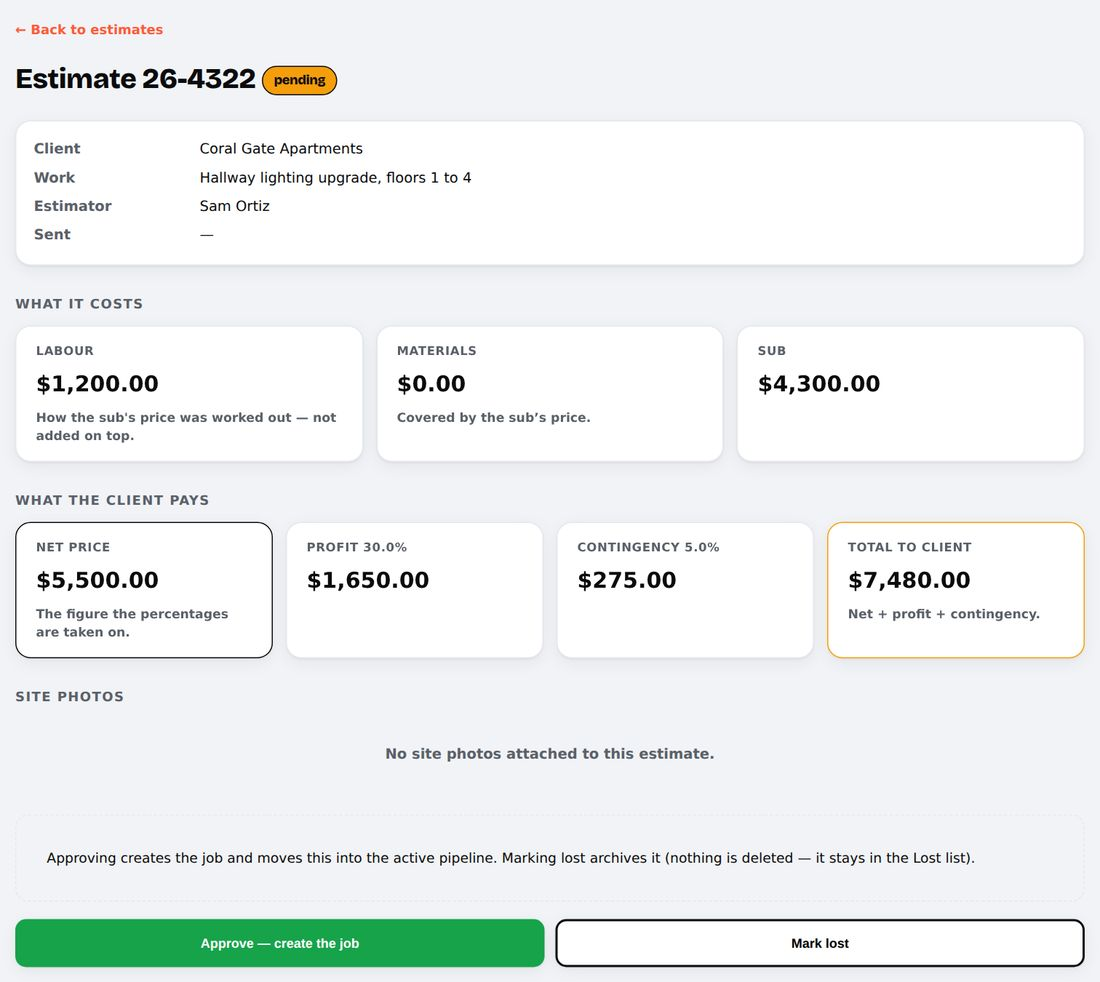
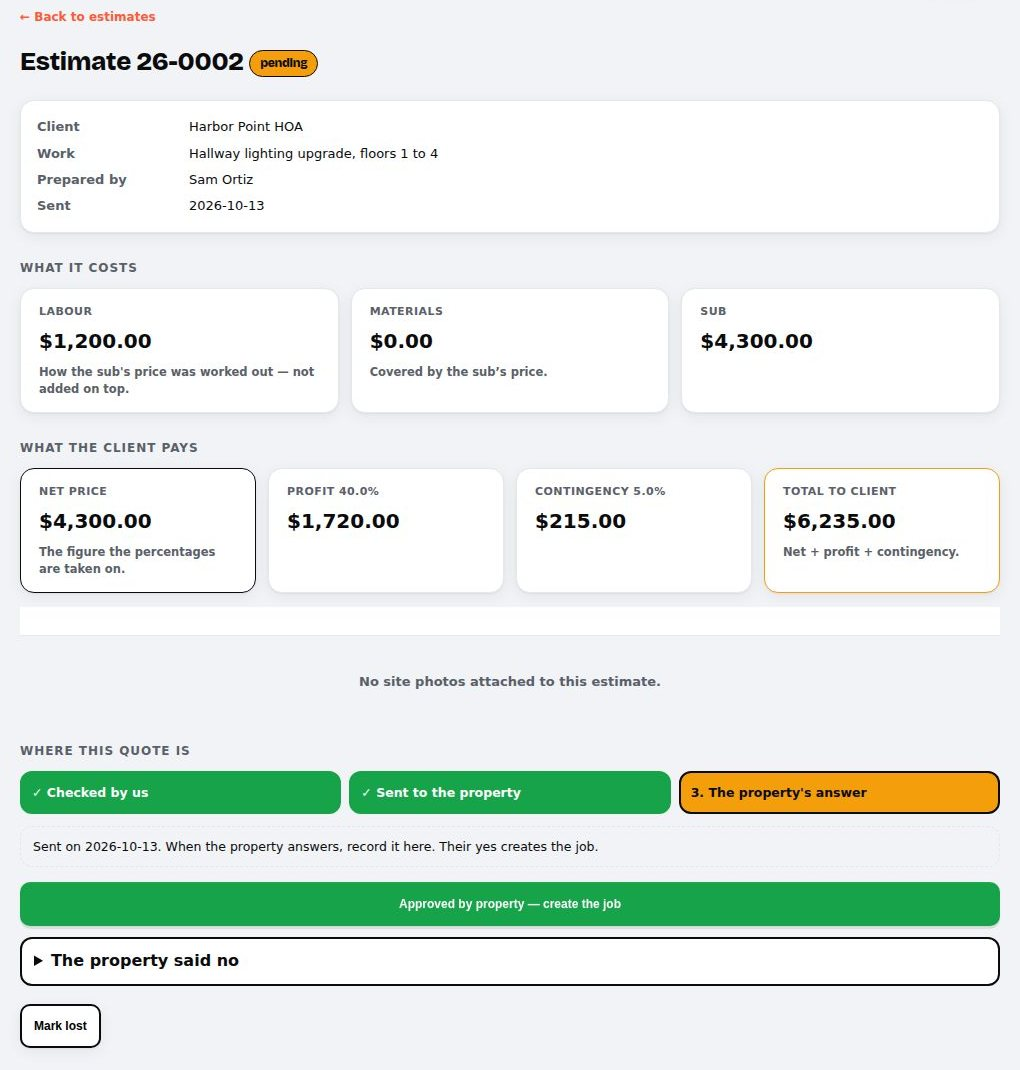
Yumbo guide: quotes in three steps, the bell, Start work, who approves expenses

diff --git a/yumbo-handbook/index.html b/yumbo-handbook/index.html
@@ -200,11 +200,21 @@ ol.steps li::before{content:counter(s);width:26px;height:26px;border-radius:99px
         <span class="tag"><i></i>The menu</span>
         <h3>The menu, in three groups</h3>
         <p><b>Work</b> is everything about jobs and quotes. <b>People</b> is your subs, suppliers and team. <b>Money</b> is who owes you, who you owe, and your company numbers.</p>
-        <p>A red number on a button means something is waiting there.</p>
+        <p>On Home the menu is open. On every other screen it is folded away, so each page starts at the top. Press ☰ to open it.</p>
         <p>The search box at the top finds any job, client, quote or invoice. Type a name or a job number.</p>
-        <div class="tip"><b>Too busy?</b> The ☰ button hides the menu. The ⚙ button opens Settings.</div>
+        <div class="tip"><b>The ⚙ button</b> opens Settings.</div>
       </div>
       <figure class="shot"><button data-full="img/menu.jpg" aria-label="Enlarge: the menu"><img src="img/menu.jpg" alt="The menu with Work, People and Money groups" loading="lazy"></button></figure>
+    </div>
+
+    <div class="how">
+      <div class="txt">
+        <span class="tag"><i></i>Every screen</span>
+        <h3>The bell: what is waiting for you</h3>
+        <p>The bell at the top is on every screen, for every person. Its number is how many alerts are waiting for you. Tap it to read them.</p>
+        <p>A red dot on ☰ means something in the menu is waiting too.</p>
+      </div>
+      <figure class="shot"><button data-full="img/topbar.jpg" aria-label="Enlarge: the top bar"><img src="img/topbar.jpg" alt="The top bar with the menu, the bell and settings" loading="lazy"></button></figure>
     </div>
 
     <div class="how">
@@ -243,7 +253,7 @@ ol.steps li::before{content:counter(s);width:26px;height:26px;border-radius:99px
     <nav class="flow" aria-label="The road a job takes">
       <a href="#newwork"><span class="n">1</span><b>Someone calls</b><small>Write it in New work</small></a>
       <a href="#quotes"><span class="n">2</span><b>Price it</b><small>A quote</small></a>
-      <a href="#approve"><span class="n">3</span><b>You say yes</b><small>It becomes a job</small></a>
+      <a href="#approve"><span class="n">3</span><b>The property says yes</b><small>It becomes a job</small></a>
       <a href="#jobpage"><span class="n">4</span><b>Do the work</b><small>The job page</small></a>
       <a href="#subs"><span class="n">5</span><b>Pay the subs</b><small>Deposit, then the rest</small></a>
       <a href="#invoices"><span class="n">6</span><b>Invoice</b><small>Nothing goes out unchecked</small></a>
@@ -306,16 +316,30 @@ ol.steps li::before{content:counter(s);width:26px;height:26px;border-radius:99px
     <div class="how" id="approve">
       <div class="txt">
         <span class="tag"><i></i>Your yes</span>
-        <h3>Say yes, and it becomes a job</h3>
+        <h3>Checked, sent, then the property's yes</h3>
         <ol class="steps">
-          <li><span>Press <span class="btn o">Review &amp; decide</span> on a quote.</span></li>
-          <li><span>Check the costs and what the client pays.</span></li>
-          <li><span>Press <span class="btn g">Approve, create the job</span>, or <span class="btn">Mark lost</span>.</span></li>
+          <li><span>Open the quote. Someone who approves quotes checks the costs and what the client pays, then presses <span class="btn">Checked — ready to send</span>.</span></li>
+          <li><span>Send it to the property, then press <span class="btn">Mark as sent to the property</span>.</span></li>
+          <li><span>When the property answers, press <span class="btn g">Approved by property — create the job</span>, or open <span class="btn">The property said no</span>.</span></li>
         </ol>
         <div class="tip"><b>The client sees one number.</b> Your costs and percentages stay inside. Only the total goes on what you send them.</div>
-        <p class="note">Lost quotes are kept, never deleted.</p>
+        <p class="note">The new job keeps the quote's number, total and photos, and stays linked to the quote. Quotes that were already waiting start as checked: press Mark as sent for the ones the property already has. Lost quotes are kept, never deleted.</p>
       </div>
-      <figure class="shot"><button data-full="img/estimate.jpg" aria-label="Enlarge: one quote"><img src="img/estimate.jpg" alt="One quote with Approve and Mark lost" loading="lazy"></button></figure>
+      <figure class="shot"><button data-full="img/estimate.jpg" aria-label="Enlarge: one quote"><img src="img/estimate.jpg" alt="One quote with its three steps" loading="lazy"></button></figure>
+    </div>
+    <div class="how">
+      <div class="txt">
+        <span class="tag"><i></i>On the quote</span>
+        <h3>Your quote, on your own page</h3>
+        <ol class="steps">
+          <li><span>On the quote, press <span class="btn">Open the quote (print or save as PDF)</span>.</span></li>
+          <li><span>It shows Attn, Ref, the Scope of Work, the Exclusions, one total, and the name and phone of the person who prepared it.</span></li>
+          <li><span>Press <span class="btn">Print or save as PDF</span> to send it.</span></li>
+        </ol>
+        <div class="tip"><b>Not checked yet?</b> It prints with DRAFT across the top, so an unchecked quote can never go out by mistake.</div>
+        <p class="note">To change the fixed words once for every quote (for example "Total Investment" for the price line), press Change the fixed wording. Each person's phone number goes on their page under People.</p>
+      </div>
+      <figure class="shot"><button class="tall" data-full="img/quote-draft.jpg" aria-label="Enlarge: the quote page"><img src="img/quote-draft.jpg" alt="The quote on your template, marked DRAFT" loading="lazy"></button></figure>
     </div>
     <div class="how">
       <div class="txt">
@@ -335,9 +359,22 @@ ol.steps li::before{content:counter(s);width:26px;height:26px;border-radius:99px
       <div class="txt">
         <span class="tag"><i></i>Work › Jobs</span>
         <h3>Find a job</h3>
-        <p>The Jobs list shows every job and its stage. Tap a stage (In progress, Invoiced, Paid) to see only those. Type in the search box to find one fast.</p>
+        <p>The Jobs list shows every job and its stage. Tap a stage (Approved, In progress, Completed, Invoiced, Paid) to see only those. Type in the search box to find one fast.</p>
       </div>
       <figure class="shot"><button class="tall" data-full="img/jobs.jpg" aria-label="Enlarge: jobs list"><img src="img/jobs.jpg" alt="Jobs list" loading="lazy"></button></figure>
+    </div>
+    <div class="how">
+      <div class="txt">
+        <span class="tag"><i></i>On the job page</span>
+        <h3>Start work, then Mark completed</h3>
+        <ol class="steps">
+          <li><span>The day the crew starts, open the job and press <span class="btn">Start work</span>. It moves to In progress.</span></li>
+          <li><span>When the work is done, press <span class="btn">Mark completed</span>.</span></li>
+          <li><span>Finished too early? <span class="btn">Reopen</span> puts it back in progress.</span></li>
+        </ol>
+        <p class="note">These buttons never touch invoices or payments.</p>
+      </div>
+      <figure class="shot"><button data-full="img/job-progress.jpg" aria-label="Enlarge: start work"><img src="img/job-progress.jpg" alt="A job with Start work and Mark completed" loading="lazy"></button></figure>
     </div>
     <div class="how solo">
       <div class="txt">
@@ -490,6 +527,7 @@ ol.steps li::before{content:counter(s);width:26px;height:26px;border-radius:99px
           <li><span>It waits for <span class="btn g">Approve</span> before it counts against the job.</span></li>
         </ol>
         <div class="tip"><b>Paid with their own card?</b> It shows "owed back", so you know who to pay back.</div>
+        <p class="note">Only you, your Secretary and Project Managers see Approve. To let someone else approve, tick Approve expenses on their page under People.</p>
       </div>
       <figure class="shot"><button data-full="img/job-spent.jpg" aria-label="Enlarge: spent on site"><img src="img/job-spent.jpg" alt="Spent on site with Approve button" loading="lazy"></button></figure>
     </div>
@@ -540,6 +578,7 @@ ol.steps li::before{content:counter(s);width:26px;height:26px;border-radius:99px
         <tr><td>Jobs and clients</td><td class="y">Yes</td><td class="y">Yes</td><td class="y">Yes</td><td class="y">Yes</td><td class="y">Yes</td></tr>
         <tr><td>New work and quotes</td><td class="y">Yes</td><td class="y">Yes</td><td class="y">Yes</td><td class="x">No</td><td class="y">Yes</td></tr>
         <tr><td>Approve quotes</td><td class="y">Yes</td><td class="y">Yes</td><td class="x">No</td><td class="x">No</td><td class="x">No</td></tr>
+        <tr><td>Approve expenses</td><td class="y">Yes</td><td class="x">No</td><td class="x">No</td><td class="y">Yes</td><td class="x">No</td></tr>
         <tr><td>Requests and team inbox</td><td class="y">Yes</td><td class="y">Yes</td><td class="y">Yes</td><td class="y">Yes</td><td class="x">No</td></tr>
         <tr><td>Subs and suppliers</td><td class="y">Yes</td><td class="y">Yes</td><td class="y">Yes</td><td class="y">Subs</td><td class="x">No</td></tr>
         <tr><td>Who owes you, You owe, Invoices</td><td class="y">Yes</td><td class="x">No</td><td class="x">No</td><td class="x">No</td><td class="x">No</td></tr>
@@ -691,7 +730,7 @@ ol.steps li::before{content:counter(s);width:26px;height:26px;border-radius:99px
     <div class="faq">
       <div><b>I typed the wrong amount.</b><p>Send me the job number and what it should be. I'll correct it the same day.</p></div>
       <div><b>Who can see the money pages?</b><p>Only you, unless you tick "See money figures" or a money tab for someone in Settings.</p></div>
-      <div><b>Can Alex make quotes and invoices?</b><p>Yes. You still approve every quote before it becomes a job, and every invoice before it goes out.</p></div>
+      <div><b>Can Alex make quotes and invoices?</b><p>Yes. Every quote is checked before it goes to the property, and every invoice before it goes out.</p></div>
       <div><b>Is my data safe?</b><p>A full copy is made every night. Your data is yours: ask any time and you get all of it.</p></div>
       <div><b>Does approving something send money?</b><p>No. Nothing in the system moves money. You pay the way you always do. The system keeps the record.</p></div>
       <div><b>Where do I start?</b><p>With your subs. Add each one to their jobs, record what you've paid, and you'll always know what's left.</p></div>
